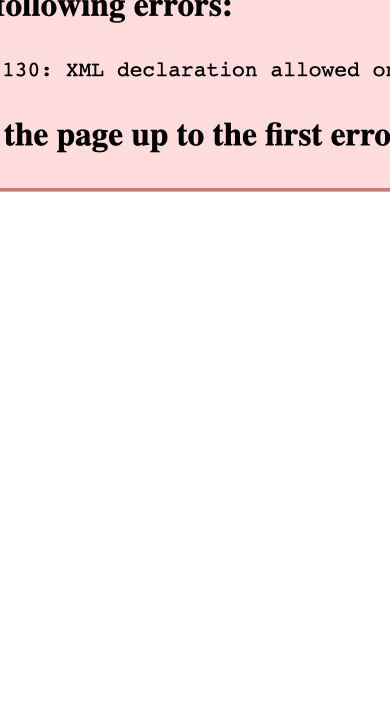
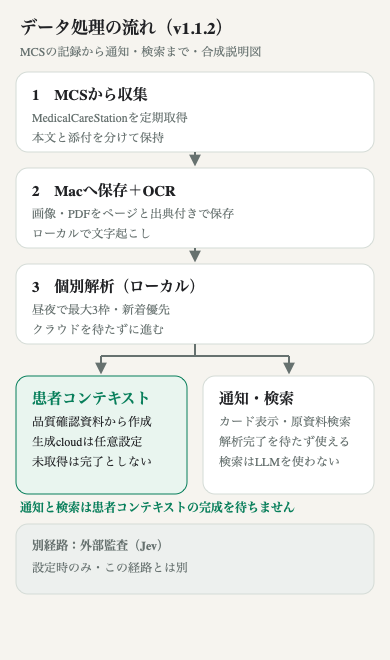
docs: 説明図3枚の意味訂正とPNG再生成・HTML原稿を保存

diff --git a/docs/releases/v1.1.2/data-processing-v112.html b/docs/releases/v1.1.2/data-processing-v112.html
@@ -1,0 +1,43 @@
+<!doctype html><html lang="ja"><head><meta charset="utf-8"><title>data-processing-v112</title></head><body>
+<svg xmlns="http://www.w3.org/2000/svg" viewBox="0 0 390 660" role="img" aria-labelledby="t d" font-family="Hiragino Kaku Gothic ProN, sans-serif">
+<title id="t">v1.1.2 MCSの記録から通知・検索までの流れ</title>
+<desc id="d">MedicalCareStationの投稿・返信・添付をMacへ保存し、画像・PDFはローカルでOCR文字起こしします。個別解析はローカルLLMで進め、品質を確認した資料から患者コンテキストを作成・更新します（生成クラウドは任意設定）。通知と検索は患者コンテキストの完成を待たずに使えます。外部監査Jevは別経路です。実画面や測定結果ではありません。</desc>
+<defs><marker id="ar" viewBox="0 0 10 10" refX="8" refY="5" markerWidth="6" markerHeight="6" orient="auto-start-reverse"><path d="M0 0L10 5L0 10" fill="#66716f"/></marker></defs>
+<rect width="390" height="660" fill="#f6f4ef"/>
+<g fill="#202124">
+<text x="20" y="34" font-size="17" font-weight="700">データ処理の流れ（v1.1.2）</text>
+<text x="20" y="56" font-size="12" fill="#66716f">MCSの記録から通知・検索まで・合成説明図</text>
+<rect x="16" y="72" width="358" height="80" rx="12" fill="#ffffff" stroke="#d5dcd7"/>
+<text x="32" y="100" font-size="15" font-weight="700">1　MCSから収集</text>
+<text x="32" y="122" font-size="12" fill="#66716f">MedicalCareStationを定期取得</text>
+<text x="32" y="142" font-size="12" fill="#66716f">本文と添付を分けて保持</text>
+<path d="M195 152V164" stroke="#66716f" stroke-width="2" marker-end="url(#ar)"/>
+<rect x="16" y="168" width="358" height="80" rx="12" fill="#ffffff" stroke="#d5dcd7"/>
+<text x="32" y="196" font-size="15" font-weight="700">2　Macへ保存＋OCR</text>
+<text x="32" y="218" font-size="12" fill="#66716f">画像・PDFをページと出典付きで保存</text>
+<text x="32" y="238" font-size="12" fill="#66716f">ローカルで文字起こし</text>
+<path d="M195 248V260" stroke="#66716f" stroke-width="2" marker-end="url(#ar)"/>
+<rect x="16" y="264" width="358" height="80" rx="12" fill="#ffffff" stroke="#d5dcd7"/>
+<text x="32" y="292" font-size="15" font-weight="700">3　個別解析（ローカル）</text>
+<text x="32" y="314" font-size="12" fill="#66716f">昼夜で最大3枠・新着優先</text>
+<text x="32" y="334" font-size="12" fill="#66716f">クラウドを待たずに進む</text>
+<path d="M195 344V356" stroke="#66716f" stroke-width="2"/>
+<path d="M101 356H289" stroke="#66716f" stroke-width="2"/>
+<path d="M101 356V372" stroke="#66716f" stroke-width="2" marker-end="url(#ar)"/>
+<path d="M289 356V372" stroke="#66716f" stroke-width="2" marker-end="url(#ar)"/>
+<rect x="16" y="376" width="171" height="118" rx="12" fill="#e9f5ef" stroke="#087f5b"/>
+<text x="32" y="404" font-size="15" font-weight="700" fill="#087f5b">患者コンテキスト</text>
+<text x="32" y="426" font-size="12" fill="#202124">品質確認資料から作成</text>
+<text x="32" y="446" font-size="12" fill="#202124">生成cloudは任意設定</text>
+<text x="32" y="466" font-size="12" fill="#202124">未取得は完了としない</text>
+<rect x="203" y="376" width="171" height="118" rx="12" fill="#ffffff" stroke="#d5dcd7"/>
+<text x="219" y="404" font-size="15" font-weight="700">通知・検索</text>
+<text x="219" y="426" font-size="12" fill="#66716f">カード表示・原資料検索</text>
+<text x="219" y="446" font-size="12" fill="#66716f">解析完了を待たず使える</text>
+<text x="219" y="466" font-size="12" fill="#66716f">検索はLLMを使わない</text>
+<text x="20" y="512" font-size="12" fill="#087f5b" font-weight="700">通知と検索は患者コンテキストの完成を待ちません</text>
+<rect x="16" y="524" width="358" height="70" rx="12" fill="#edf0ee" stroke="#d5dcd7"/>
+<text x="32" y="550" font-size="12" font-weight="700" fill="#66716f">別経路：外部監査（Jev）</text>
+<text x="32" y="572" font-size="12" fill="#66716f">設定時のみ・この経路とは別</text>
+</g></svg>
+</body></html>

diff --git a/docs/releases/v1.1.2/patient-find-v112.html b/docs/releases/v1.1.2/patient-find-v112.html
@@ -1,0 +1,34 @@
+<!doctype html><html lang="ja"><head><meta charset="utf-8"><title>patient-find-v112</title></head><body>
+<svg xmlns="http://www.w3.org/2000/svg" viewBox="0 0 390 640" role="img" aria-labelledby="t d" font-family="Hiragino Kaku Gothic ProN, sans-serif">
+<title id="t">v1.1.2 患者の原資料を探して戻る</title>
+<desc id="d">通知カードでMCSの返信を読み、患者情報と検索へ進み、同じ患者の別スレッドや添付OCRを探し、出典とMCSの患者ルームへ戻ります。検索は解析完了を待ちません。実画面や測定結果ではありません。</desc>
+<defs><marker id="ar" viewBox="0 0 10 10" refX="8" refY="5" markerWidth="6" markerHeight="6" orient="auto-start-reverse"><path d="M0 0L10 5L0 10" fill="#66716f"/></marker></defs>
+<rect width="390" height="640" fill="#f6f4ef"/>
+<g fill="#202124">
+<text x="20" y="34" font-size="17" font-weight="700">患者の原資料を探して戻る（v1.1.2）</text>
+<text x="20" y="56" font-size="12" fill="#66716f">検索は解析完了を待たない・合成説明図</text>
+<rect x="16" y="72" width="358" height="86" rx="12" fill="#ffffff" stroke="#d5dcd7"/>
+<text x="32" y="102" font-size="15" font-weight="700">1　通知カードから開始</text>
+<text x="32" y="126" font-size="12" fill="#66716f">MCSの返信を通知カードで確認</text>
+<text x="32" y="146" font-size="12" fill="#66716f">「👤 患者情報」「🔎 この患者を検索」</text>
+<path d="M195 160V178" stroke="#66716f" stroke-width="2" marker-end="url(#ar)"/>
+<rect x="16" y="182" width="358" height="86" rx="12" fill="#ffffff" stroke="#d5dcd7"/>
+<text x="32" y="212" font-size="15" font-weight="700">2　患者情報・検索</text>
+<text x="32" y="236" font-size="12" fill="#66716f">同じ患者の取得済み原文を検索</text>
+<text x="32" y="256" font-size="12" fill="#66716f">LLM・概況回数を使わない</text>
+<path d="M195 270V288" stroke="#66716f" stroke-width="2" marker-end="url(#ar)"/>
+<rect x="16" y="292" width="358" height="86" rx="12" fill="#ffffff" stroke="#d5dcd7"/>
+<text x="32" y="322" font-size="15" font-weight="700">3　別スレッド・添付OCRへ</text>
+<text x="32" y="346" font-size="12" fill="#66716f">同じ患者の別投稿・OCR資料を表示</text>
+<text x="32" y="366" font-size="12" fill="#66716f">未検索範囲・未完了を区別</text>
+<path d="M195 380V398" stroke="#66716f" stroke-width="2" marker-end="url(#ar)"/>
+<rect x="16" y="402" width="358" height="100" rx="12" fill="#e9f5ef" stroke="#087f5b"/>
+<text x="32" y="432" font-size="15" font-weight="700" fill="#087f5b">4　出典とMCSへ戻る</text>
+<text x="32" y="456" font-size="12" fill="#202124">結果から原資料と患者ルームを開く</text>
+<text x="32" y="476" font-size="12" fill="#202124">閲覧は所属・条件を毎回照合</text>
+<rect x="16" y="516" width="358" height="86" rx="12" fill="#edf0ee" stroke="#d5dcd7"/>
+<text x="32" y="546" font-size="12" font-weight="700" fill="#66716f">条件の目安</text>
+<text x="32" y="570" font-size="12" fill="#66716f">入力500字・5件ずつ・本人表示</text>
+<text x="32" y="590" font-size="12" fill="#66716f">詳細は更新時の注意を参照</text>
+</g></svg>
+</body></html>

diff --git a/docs/releases/v1.1.2/setup-steps-v112.html b/docs/releases/v1.1.2/setup-steps-v112.html
@@ -1,0 +1,34 @@
+<!doctype html><html lang="ja"><head><meta charset="utf-8"><title>setup-steps-v112</title></head><body>
+<svg xmlns="http://www.w3.org/2000/svg" viewBox="0 0 390 640" role="img" aria-labelledby="t d" font-family="Hiragino Kaku Gothic ProN, sans-serif">
+<title id="t">v1.1.2 導入から利用開始までの4段階</title>
+<desc id="d">ソフト準備、初期設定、browserと通知接続、checkと利用開始の4段階です。設定済みと接続完了と利用開始は別の段階で、各段階のcheck合格は全ての完了を保証しません。実画面や測定結果ではありません。</desc>
+<defs><marker id="ar" viewBox="0 0 10 10" refX="8" refY="5" markerWidth="6" markerHeight="6" orient="auto-start-reverse"><path d="M0 0L10 5L0 10" fill="#66716f"/></marker></defs>
+<rect width="390" height="640" fill="#f6f4ef"/>
+<g fill="#202124">
+<text x="20" y="34" font-size="17" font-weight="700">導入から利用開始まで（v1.1.2）</text>
+<text x="20" y="56" font-size="12" fill="#66716f">この環境の導入例・4段階・合成説明図</text>
+<rect x="16" y="72" width="358" height="86" rx="12" fill="#ffffff" stroke="#d5dcd7"/>
+<text x="32" y="102" font-size="15" font-weight="700">1　ソフト準備</text>
+<text x="32" y="126" font-size="12" fill="#66716f">依存ソフトとruntimeの導入</text>
+<text x="32" y="146" font-size="12" fill="#66716f">install.sh が段階を記録</text>
+<path d="M195 160V178" stroke="#66716f" stroke-width="2" marker-end="url(#ar)"/>
+<rect x="16" y="182" width="358" height="86" rx="12" fill="#ffffff" stroke="#d5dcd7"/>
+<text x="32" y="212" font-size="15" font-weight="700">2　初期設定</text>
+<text x="32" y="236" font-size="12" fill="#66716f">アダプター・通知先・予算の設定</text>
+<text x="32" y="256" font-size="12" fill="#66716f">設定済み ≠ 接続完了</text>
+<path d="M195 270V288" stroke="#66716f" stroke-width="2" marker-end="url(#ar)"/>
+<rect x="16" y="292" width="358" height="86" rx="12" fill="#ffffff" stroke="#d5dcd7"/>
+<text x="32" y="322" font-size="15" font-weight="700">3　browser・通知接続</text>
+<text x="32" y="346" font-size="12" fill="#66716f">ログインと通知先の疎通確認</text>
+<text x="32" y="366" font-size="12" fill="#66716f">接続完了 ≠ 利用開始</text>
+<path d="M195 380V398" stroke="#66716f" stroke-width="2" marker-end="url(#ar)"/>
+<rect x="16" y="402" width="358" height="100" rx="12" fill="#e9f5ef" stroke="#087f5b"/>
+<text x="32" y="432" font-size="15" font-weight="700" fill="#087f5b">4　check・利用開始</text>
+<text x="32" y="456" font-size="12" fill="#202124">mcs setup check で問題0を確認</text>
+<text x="32" y="476" font-size="12" fill="#202124">doctorで診断・接続受入は別確認</text>
+<rect x="16" y="516" width="358" height="90" rx="12" fill="#edf0ee" stroke="#d5dcd7"/>
+<text x="32" y="544" font-size="12" font-weight="700" fill="#66716f">途中で止まった場合</text>
+<text x="32" y="566" font-size="12" fill="#66716f">install_progress.jsonは最後に開始した段階の記録</text>
+<text x="32" y="586" font-size="12" fill="#66716f">再開はUPGRADE・SETUPの診断手順へ</text>
+</g></svg>
+</body></html>
